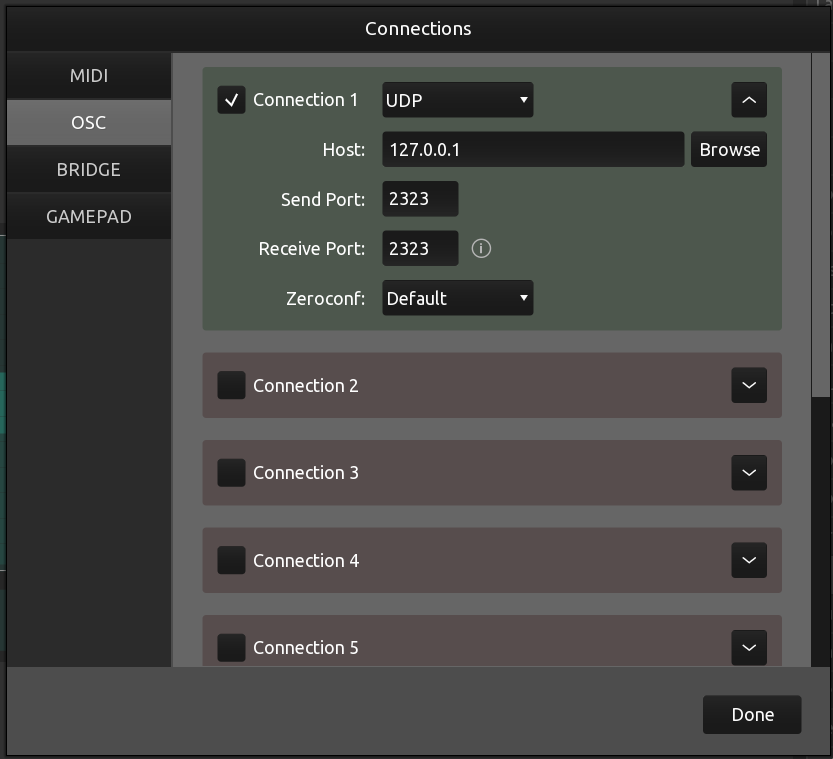
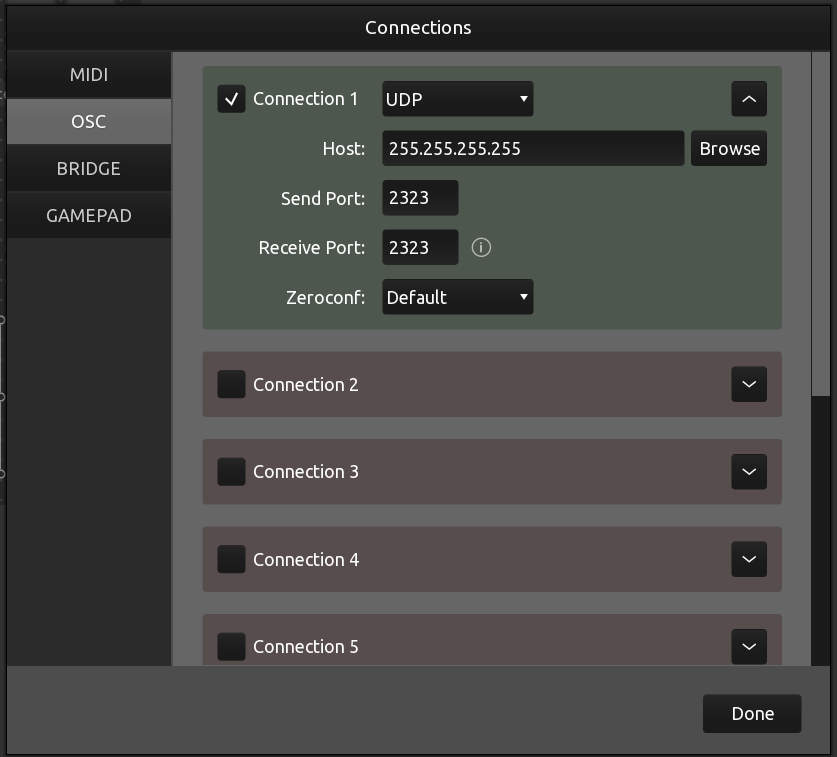
Minor improvements

diff --git a/main.py b/main.py
@@ -12,6 +12,7 @@ from datetime import timedelta
 import asyncio
 import keyboard
 import time
+import os
 
 import matplotlib.pyplot as plt
 import threading
@@ -32,12 +33,12 @@ from BPDTreatment1 import BPDTreatment1
 
 # Instantiate the bpd model and treatment logic to use
 _modelUpdateInterval:float = 0.0015
-_modelToUse:BPDModel2 = BPDModel2(dt=_modelUpdateInterval, delay_seconds=0.02, g_gain=0.07, lamb=0.5)
-_treatmentToUse:BPDTreatment1 = BPDTreatment1(XAngleRatio=0.5, XAngleVelocityRatio=0.0, TreatmentScale=0.001)
+_modelToUse:AbstractModel = BPDModel2(dt=_modelUpdateInterval, delay_seconds=0.02, g_gain=0.07, lamb=0.5)
+_treatmentToUse:AbstractTreatment = BPDTreatment1(XAngleRatio=1, XAngleVelocityRatio=0.0, TreatmentScale=0.015)
 
 # ------------------------------------------------------------------------------------------------------------
 # configuration of OSC sending/receiving
-_oscServerIP:str = "127.0.0.1"
+_oscServerIP:str = "0.0.0.0"
 _oscServerListenPort:int = 2323
 _oscMessageDestinationIP = "255.255.255.255"
 _oscMessageDestinationPort = 2323
@@ -91,8 +92,8 @@ def handleOscMessage_AccelAngle(address, *args):
     global _imuData
     global _debugLogIncomingOSC
     _imuData.xAccelAngle = args[0]
+
     _imuData.yAccelAngle = args[1]
-    _imuData.zAccelAngle= args[2]
     if _debugLogIncomingOSC:
         print(f"Received OSC: {address}: {args}")
 
@@ -130,9 +131,22 @@ async def mainLoop():
     _timeLoop.stop()
 
 # ------------------------------------------------------------------------------------------------------------
-def on_key(event):
+def on_key(event:str):
+    global _debugLogIncomingOSC
+
     _modelToUse.on_key(event)
     _treatmentToUse.on_key(event)
+    
+    printMsg:bool=False
+    if event.key == 'd': 
+        _debugLogIncomingOSC = False
+        printMsg=True
+    elif event.key == 'D': 
+        _debugLogIncomingOSC = True
+        printMsg=True
+    
+    if printMsg:
+        print(f"Debug log incoming OSC messages = {_debugLogIncomingOSC}")
 
 # ------------------------------------------------------------------------------------------------------------
 async def mainInit():
@@ -189,6 +203,19 @@ def runPlotter():
 
 # ------------------------------------------------------------------------------------------------------------
 if __name__ == '__main__':
+    # clear screen
+    os.system('cls' if os.name == 'nt' else 'clear')
+
+    # print keys that the scripts respond to
+    print(f'Listing keys:')
+    print(f'=============')
+    _modelToUse.print_key_info()
+    _treatmentToUse.print_key_info()
+    print(f'{os.path.basename(__file__)}: d/D = debug printing incoming OSC message info off/on')      
+    print()
+    input('Press ENTER to continue...')
+    print()
+
     print('Initializing Main')
     new_loop = asyncio.new_event_loop()
     eventThread:threading.Thread = threading.Thread(target=run_event_loop, args=(new_loop,))

diff --git a/BPDModel2.py b/BPDModel2.py
@@ -1,5 +1,6 @@
 from Helpers.AbstractModel import AbstractModel
 import numpy as np
+import os
 from math import erf   # ✅ error function
 from Helpers.ModelOutputData import ModelOutputData
 
@@ -237,3 +238,12 @@ class BPDModel2(AbstractModel):
 
         if printMsg:
             print(f"λ={self.lamb:.2f}, g={self.g_gain:.2f}, dt={self.dt:.4f}, mode={self.InjectMode}")
+
+    # ------------------------------------------------------------------------------------------------------------
+    def print_key_info(self):
+        print(f'{os.path.basename(__file__)}: l/L  = reduce or increase lambda by 0.05')      
+        print(f'{os.path.basename(__file__)}: g/G  = reduce or increase gain by 0.0005')      
+        print(f'{os.path.basename(__file__)}: t/T  = reduce or increase dT by 0.0005')      
+        print(f'{os.path.basename(__file__)}: m  = cycle through inject modes (add_to_lambda, add_to_g, add_to_P, add_to_EB, tilt_to_PN)')
+        print(f'{os.path.basename(__file__)}: r  = reset')      
+      

diff --git a/BPDTreatment1.py b/BPDTreatment1.py
@@ -1,3 +1,5 @@
+import os
+
 from Helpers.AbstractTreatment import AbstractTreatment
 from Helpers.ImuData import ImuData
 
@@ -36,7 +38,7 @@ class BPDTreatment1(AbstractTreatment):
       return treatmentEffect
    
    # ------------------------------------------------------------------------------------------------------------
-   def on_key(self, event):
+   def on_key(self, event:str):
       printMsg:bool = False      
       
       if event.key == 'k': 
@@ -48,3 +50,7 @@ class BPDTreatment1(AbstractTreatment):
 
       if printMsg:
          print(f"treatment scale={self.TreatmentScale}")
+
+   # ------------------------------------------------------------------------------------------------------------
+   def print_key_info(self):
+      print(f'{os.path.basename(__file__)}: k/K  = reduce or increase treatment scale by 0.0005')      

diff --git a/Helpers/AbstractModel.py b/Helpers/AbstractModel.py
@@ -24,7 +24,10 @@ class AbstractModel:
     # --------------------------
     # Method to handle key press
     # --------------------------
-    def on_key(self, event):
+    def on_key(self, event:str):
+        pass
+
+    def print_key_info(self):
         pass
 
     # --------------------------

diff --git a/Helpers/AbstractTreatment.py b/Helpers/AbstractTreatment.py
@@ -29,3 +29,6 @@ class AbstractTreatment:
    # Method to handle keypress
    def on_key(self, event):
       pass
+
+   def print_key_info(self):
+      pass

diff --git a/readme.md b/readme.md
@@ -1,8 +1,9 @@
 # Setting up
 
 ## Visual Studio Code
+- Install Python. This has been tested with Python 3.8
 - Install visual studio code
-- Install Pyton. This has been tested with Python 3.8
+- Install the python extension in visual studio code
 
 ### Creating a virtual environment for python
 In visual studio code, press ```CTRL+SHIFT+P``` to show all commands. Select ```Python: Create Environment```. Select the python interpreter that you have installed
@@ -37,7 +38,7 @@ Or, all at once:
 - The 4 sets of faders represent the IMU data received (in OSC messages) from the arduino
 - The knob represents the BPD Model data received from the python script
 
-# Running the pyton script
+# Running the python script
 
 The python script is [main.py](./main.py). This script provides a skeletal implementation with the following:
 
